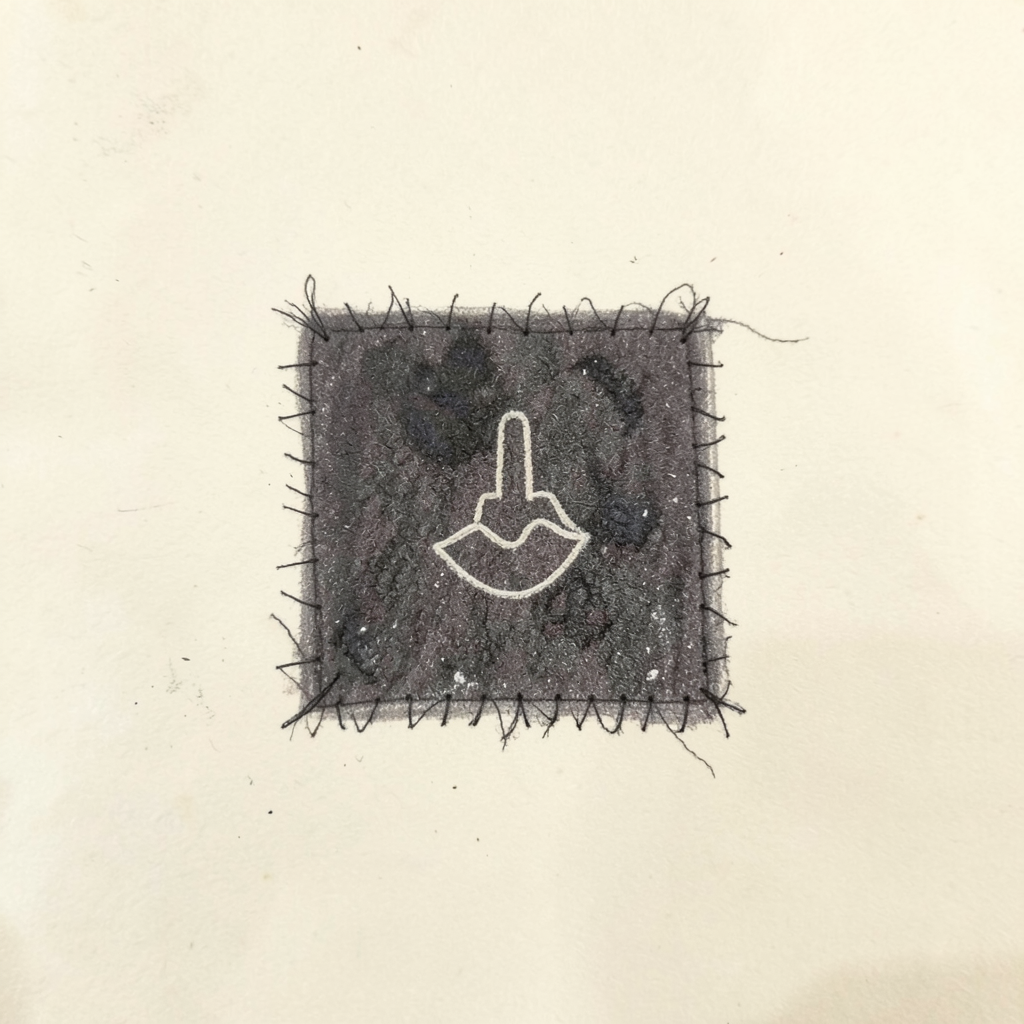
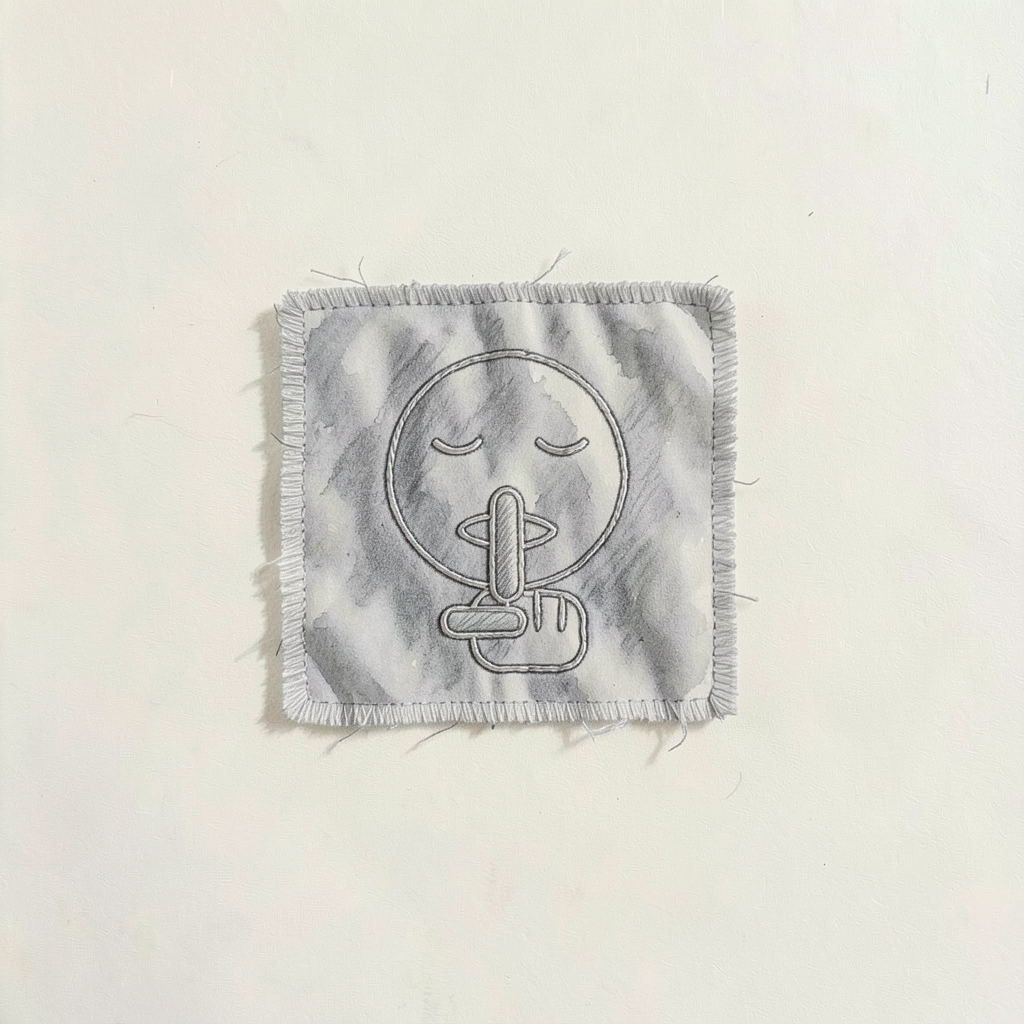
Gildenzeichen Leise Hand: eindeutige Psst-Geste mit gezeichneter Vorlage

Changed region(s): [[0.2188, 0.25, 0.75, 0.75], [0.75, 0.9062, 1.0, 1.0]]

diff --git a/tools/leise-hand-vorlage.py b/tools/leise-hand-vorlage.py
@@ -1,0 +1,39 @@
+# Zeichnet das Zeichen der Leisen Hand als exakte Vorlage: ein Gesicht von vorn, Augen geschlossen,
+# der ZEIGEfinger liegt senkrecht über den Lippen („Psst“), Daumen und eingerollte Finger sind sichtbar,
+# damit die Geste nie als anderer Finger gelesen werden kann.
+# Aufruf: python tools/leise-hand-vorlage.py  → docs/art/requisiten/leise-hand-vorlage.png
+from PIL import Image, ImageDraw
+
+S = 1024
+im = Image.new('RGB', (S, S), 'white')
+d = ImageDraw.Draw(im)
+T = 14  # Strichstärke
+schwarz = (20, 20, 20)
+
+# Gesicht
+d.ellipse((232, 140, 792, 760), outline=schwarz, width=T)
+# geschlossene Augen (Bögen nach unten)
+d.arc((330, 330, 450, 410), 20, 160, fill=schwarz, width=T)
+d.arc((574, 330, 694, 410), 20, 160, fill=schwarz, width=T)
+# Mund: geschlossene Lippen als Oval mit Mittellinie (der Finger liegt darüber)
+d.ellipse((392, 568, 632, 662), outline=schwarz, width=T)
+d.line((400, 615, 624, 615), fill=schwarz, width=8)
+
+# Hand von unten: Faust mit eingerollten Fingern, Zeigefinger senkrecht nach oben über den Mund
+weiss = (255, 255, 255)
+# Zeigefinger
+d.rounded_rectangle((470, 500, 554, 820), 42, fill=weiss, outline=schwarz, width=T)
+d.line((480, 560, 544, 560), fill=schwarz, width=6)          # Fingernagel-Andeutung
+d.arc((478, 505, 546, 570), 200, 340, fill=schwarz, width=6)
+# Faust (eingerollte Finger) unter dem Zeigefinger, deutlich breiter
+d.rounded_rectangle((420, 760, 700, 960), 70, fill=weiss, outline=schwarz, width=T)
+for x in (510, 580, 640):                                       # Fingerknöchel
+    d.line((x, 770, x, 860), fill=schwarz, width=8)
+# Daumen links, quer über die Faust
+d.rounded_rectangle((360, 800, 560, 880), 40, fill=weiss, outline=schwarz, width=T)
+# Zeigefinger noch einmal oben drüber, damit er vor der Faust liegt
+d.rounded_rectangle((470, 500, 554, 790), 42, fill=weiss, outline=schwarz, width=T)
+d.arc((478, 505, 546, 570), 200, 340, fill=schwarz, width=6)
+
+im.save('docs/art/requisiten/leise-hand-vorlage.png')
+print('docs/art/requisiten/leise-hand-vorlage.png')

diff --git a/docs/art/tagebuch/README.md b/docs/art/tagebuch/README.md
@@ -19,4 +19,4 @@ Ausgearbeitet von Claude am 14.10.2026. Kleine Skizzen für die Laschen **Tasche
 Alle 54 Skizzen mit `tools/erzeuge-szene.ps1`, je 4 Seeds, Referenzen aus der Kopfzeile. Übersichten: `uebersicht-taschen.png`, `uebersicht-menschen.png`.
 Gewählt ist Seed 1, außer: `herzsplitter` 3 (einziger mit vier Farben), `quelle-wasser` 1, `silber` 2, `paeckchen` 3, `gildenzeichen-leise_hand` 1, Menschen `tickwort` 3, `vael` 4 (Flaumhaar), `fesk` 2, `fink` 2, `grisk` 1, `ysolde` 2, `jaro` 2, `kettrich` 2.
 
-**Bekannte Schwächen:** `brief` – Ringsiegel sauber, vier Ringe. `faehrfrau` – Ringe auf dem Ruder. `fremder` – Gesicht sichtbar (wie gewählt). `kettrich` – am 19.10.2026 mit `menschen/kettrich-brille.prompt.txt` nachbearbeitet (Seed 1): jetzt gestapelte Gläser wie im Einzelbild. `yrsa` – Rußflecken im Gesicht. `gildenzeichen-leise_hand` am 19.10.2026 neu (N7, Seed 11): nur ein dunkler Stoffflicken mit gesticktem Zeichen (Finger an den Lippen), keine echte Hand. Seeds 13/14 verworfen (Handzeichen missverständlich). `jaro` neu (N8, Seed 12) mit hellem Papierrand. Einige Skizzen haben einen leicht gelblichen Papierrand statt nur Creme.
+**Bekannte Schwächen:** `brief` – Ringsiegel sauber, vier Ringe. `faehrfrau` – Ringe auf dem Ruder. `fremder` – Gesicht sichtbar (wie gewählt). `kettrich` – am 19.10.2026 mit `menschen/kettrich-brille.prompt.txt` nachbearbeitet (Seed 1): jetzt gestapelte Gläser wie im Einzelbild. `yrsa` – Rußflecken im Gesicht. `gildenzeichen-leise_hand` – **zweimal nachgebessert (19.10.2026):** Die N7-Fassung sah aus wie eine Unterlippe mit Mittelfinger (von Pasco bemerkt) und wurde ersetzt. Jetzt mit exakt gezeichneter Vorlage `requisiten/leise-hand-vorlage.png` (`tools/leise-hand-vorlage.py`: Gesicht von vorn, Zeigefinger über den Lippen, Daumen und Faust sichtbar). Runde 1 eindeutig, aber Foto-Look; Runde 2 enthielt wieder eine falsche Hand; Runde 3 = Runde 1 Seed 3, per Bildbearbeitung (`gildenzeichen-leise_hand-skizze.prompt.txt`) in Aquarell umgewandelt, Seed 5. **Regel:** Dieses Zeichen nie nur aus Text erzeugen, immer mit der Vorlage. `jaro` neu (N8, Seed 12) mit hellem Papierrand. Einige Skizzen haben einen leicht gelblichen Papierrand statt nur Creme.

diff --git a/docs/auftraege.md b/docs/auftraege.md
@@ -275,7 +275,7 @@ Neu in der Prüfliste: **kein Buch, kein Tisch, kein Rand**, nur die Skizze auf 
 **Grundlage:** Durchsicht aller Übersichten im Story-Chat am 19.10.2026. Die vier Punkte aus `docs/offene-entscheidungen.md` sind schon erledigt; hier stehen nur die **zusätzlichen** Funde. Selbstständig abarbeiten. Klappt ein Punkt nach der genannten Runde nicht: **das bisherige Bild behalten**, im README notieren und weitermachen.
 
 - [x] **N6 Keine lesbare Schrift – Silbermark:** `szenen/perle-7/szene-silbermark-stube.png` neu mit dem nachgeschärften Prompt (Zettel gefaltet, Bücher zu), 6 Seeds. **Prüfliste:** keine Buchstaben oder Schein-Schrift im Bild; der Kiesel im Päckchen ist zu sehen. Alternative: Schrift auf dem bisherigen Bild in Krita übermalen. → **19.10.2026:** `szene-silbermark-stube.png` Seed 9.
-- [x] **N7 Gildenzeichen Leise Hand:** `tagebuch/taschen/gildenzeichen-leise_hand.png` neu mit dem geänderten Prompt (nur ein Stoffflicken mit gesticktem Zeichen), 4 Seeds. **Prüfliste:** keine echte Hand, kein Arm, keine Finger, die etwas halten (sonst wirkt es wie die Hand der Spielfigur). → **19.10.2026:** `gildenzeichen-leise_hand.png` Seed 11.
+- [x] **N7 Gildenzeichen Leise Hand:** `tagebuch/taschen/gildenzeichen-leise_hand.png` neu mit dem geänderten Prompt (nur ein Stoffflicken mit gesticktem Zeichen), 4 Seeds. **Prüfliste:** keine echte Hand, kein Arm, keine Finger, die etwas halten (sonst wirkt es wie die Hand der Spielfigur). → **19.10.2026:** zuerst Seed 11 (sah aus wie ein Mittelfinger, von Pasco bemerkt), dann mit gezeichneter Vorlage `requisiten/leise-hand-vorlage.png` neu, siehe `tagebuch/README.md`.
 - [x] **N8 Jaro ohne Rand:** `tagebuch/menschen/jaro.png` neu (gleicher Prompt, andere Seeds, z. B. ab Seed 11), 4 Seeds. **Prüfliste:** heller Papierrand wie bei allen anderen Skizzen, kein dunkler Rahmen. → **19.10.2026:** `jaro.png` Seed 12.
 - [x] **N9 Abschluss:** Übersichten Perle 7 und Tagebuch neu bauen, Ergebnisse in den READMEs eintragen, hier abhaken, committen, pushen. → **19.10.2026:** Übersichten Perle 7 und Tagebuch neu gebaut, READMEs ergänzt.
 
